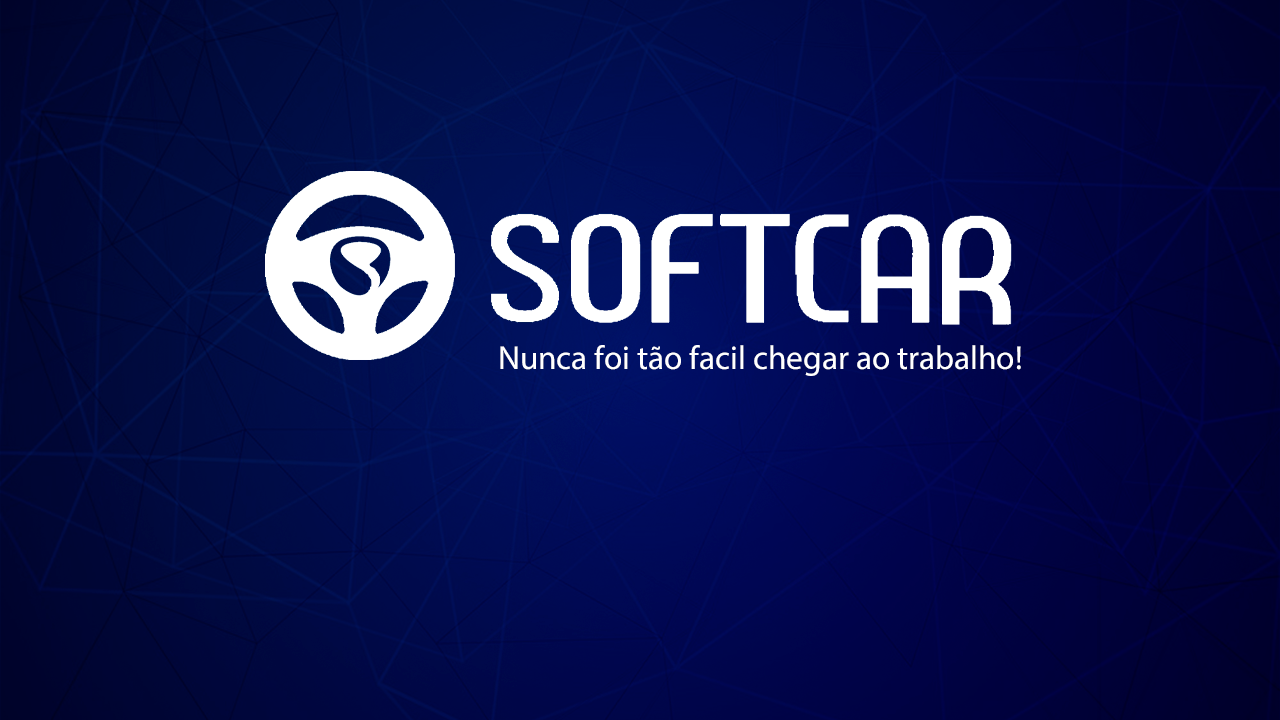
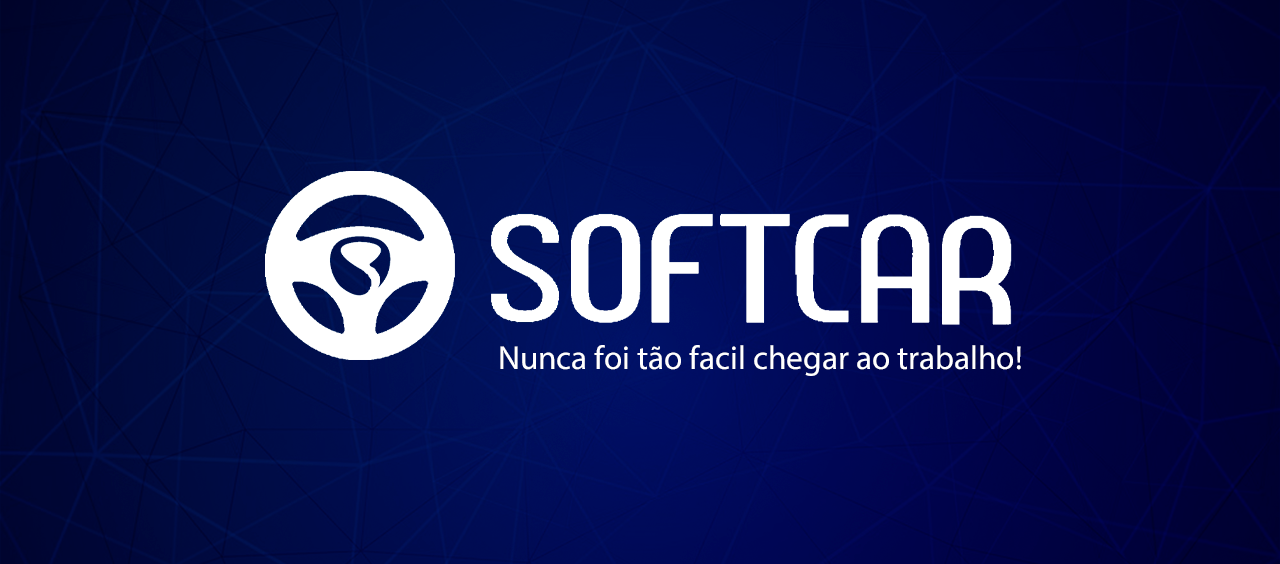
UPDATED BY ZÉ

Changed region(s): [[0.1875, 0.2411, 0.8125, 0.633], [0.375, 0.6028, 0.8125, 0.6631]]

diff --git a/home.html b/home.html
@@ -2,7 +2,7 @@
 <html lang="pt-br"></html>
 <html>
     <head>
-        <title>SoftCar Web</title>
+        <title>Softcar Web</title>
             <meta charset="utf-8">
             <link rel="stylesheet" href="home.css"/>
             <link rel="stylesheet" href="colorsLightMode.css"/>
@@ -17,10 +17,10 @@
             </nav>
     <nav class="menu">
         <ul>
-            <li id="espaçoLogo">
-                <a href="home.html">
+            <li class="espaçoLogo" href="home.html">
+                 
                     <img id="logo" src="logo.png">
-                </a>
+
             </li>
             <li><a href="#">Download Mobile</a>
             </li>
@@ -31,17 +31,45 @@
                     </ul>
                 </li>
             <li><a href="#">Fale Conosco</a></li>
-           <!-- <li> 
-                <a href="sitezitoDark.html">Modo Escuro</a>
-            </li> -->
         </ul>
     </nav>
             <div class="banner">
                 <img src="banner.png">  
             </div>
             <div class="texto1">
-                <p id="titulo1">Bem-Vindo ao SoftCar!</p>
-                <p id="descriçao">O SoftCar é um app android pra coisar uma coisa muito coisada e esse texto foi feito só pra encher linguiça pq eu o Jorge ta me fazendo quase dormir e eu to com preguiça de escrever um texto sério pra essa descrição agora valeu falou, gabriel termina aí namoral</p>
+                <p id="titulo1">Nunca foi tão facil chegar ao trabalho!</p>
+                <p id="descriçao">Lorem ipsum dolor sit amet, consectetur adipiscing elit. Integer commodo enim sem, a aliquam arcu auctor in. Nulla facilisi. Suspendisse imperdiet diam non aliquet pellentesque. Donec nec luctus enim. Nullam ultricies mi quis lectus varius, in tincidunt leo tincidunt. Phasellus tincidunt rutrum egestas. Morbi et risus arcu. Pellentesque rhoncus neque ligula, varius tincidunt lorem placerat a. Vivamus sed ex ipsum. Duis justo diam, convallis sed libero a, vehicula semper tellus. Nam vel leo diam. Lorem ipsum dolor sit amet, consectetur adipiscing elit. Nullam nec lectus enim. Pellentesque vel sapien sagittis, facilisis ipsum at, tempus urna. Sed metus justo, venenatis in metus vitae, gravida maximus felis. Cras condimentum sapien vitae sagittis vulputate.</p>
             </div>  
+                        
+                <div class="tabelas">
+                            <table class="tabela1">
+                                <tr class="titulo">
+                                        <th>Como surgiu?</th>
+                                </tr>
+                                    <tr>
+                                    <td>Lorem ipsum dolor sit amet, consectetur adipiscing elit. Integer commodo enim sem</td>
+                                </tr>
+                                </tr>
+                        </table>
+                        <table class="tabela2">
+                                <tr class="titulo">
+                                        <th>O Que é?</th> 
+                                </tr>
+                                    <tr>
+                                        <td>Lorem ipsum dolor sit amet, consectetur adipiscing elit. Integer commodo enim sem</td>
+                                    </tr>
+                                    </tr>
+                        </table>
+                        <table class="tabela3">
+                                <tr class="titulo">
+                                        <th>Quem somos?</th>
+                                </tr>
+                                    <tr>
+                                        <td>Lorem ipsum dolor sit amet, consectetur adipiscing elit. Integer commodo enim sem</td>
+                                    </tr>    
+                                </tr>
+                        </table>
+                    </div>
+
     </body>
 </html>

diff --git a/home.css b/home.css
@@ -8,6 +8,7 @@
         height: 50px;
         font-family:'Roboto',sans-serif;
         position: fixed;
+        box-shadow: 0px 1px 3px #145899;
     }
 
     .menu ul{
@@ -18,7 +19,6 @@
     .menu ul li{
         width: 200px;
         float: left;
-        box-shadow: 0px 1px 3px rgb(184, 184, 184);
     }
     
     .menu  a{
@@ -36,12 +36,16 @@
         font-family:'Roboto',sans-serif;
     }
     .menu #logo{
-        height: 33px;
+        height: 25px;
 
     }
-    .menu #espaçoLogo{
-        border-bottom-right-radius: 5px;
-    }
+    .espaçoLogo{
+        padding-top: 15px;
+        padding-bottom: 15px;
+        text-align: center;
+        width: 100%;
+    } 
+
     #descriçao{
         font-family: 'Open Sans',sans-serif;
         font-size: 18pt;
@@ -71,19 +75,6 @@
         width: 50px;
         height: 50px;
     }
-    
-    /* label[for="bt_darkMode"]{
-        padding: 15px;
-        font-family: 'Segoe UI';
-        text-align: center;
-        cursor: pointer;
-        display: block;
-        height: 100%;
-    } */
-
-    /* #bt_darkMode{
-        display: none;
-    } */
 
     #bt_menu{
         display: none;
@@ -95,10 +86,6 @@
     .banner img{
         width: 100%;
     }
-
-    /* label[for="bt_darkMode"]:hover{
-        font-weight: bold;
-    } */
 
     .texto1{
         padding: 50px;
@@ -114,24 +101,33 @@
         font-family: 'Open Sans',sans-serif;
         font-size: 18pt;
         padding-top: 25px;
-    }
-
-    #gif-do-pedro{
-        padding-top: 20px;
-        padding-left: 20px;
-        
-    }
-    #gif-comunista{
-        height: 253px;
-        padding-left: 20px;
+        padding-bottom: 25px;
     }
     
-   
-    /* @media(bt_darkMode: checked){
-        *{
-            background-color: #3a3a3a;
-        }
-    } */
+    .tabelas{
+        display: flex;
+        margin: 0px 50px 50px 50px;
+        font-family: 'Roboto',sans-serif;
+        font-size: 20px;
+    }
+    .tabela1{
+        padding: 10px;
+        box-shadow: 0px 0px 5px #145899;
+        border-radius: 20px;
+        margin: 0px 15px 0px 0px
+    }
+    .tabela2{
+        padding: 10px;
+        box-shadow: 0px 0px 5px #145899;
+        border-radius: 20px;
+    }
+    .tabela3{
+        padding: 10px;
+        box-shadow: 0px 0px 5px #145899;
+        border-radius: 20px;
+        margin: 0px 0px 0px 15px
+    }
+
 
 
  /* ########################################################### TELA PEQUENA ################################################################# */

diff --git a/colorsLightMode.css b/colorsLightMode.css
@@ -18,11 +18,8 @@ label[for="bt_menu"]{
     background-color: #145899;
     color: #ffffff;
 }
-/* label[for="bt_darkMode"]{
-    background-color: #ffffff;
-    color: #2abb51;
+#titulo1{
+    color: #145899;
 }
-label[for="bt_darkMode"]:hover{
-    background-color: #1a29af;
-    color: #ffffff;
-} */
+
+

diff --git a/README.md b/README.md
@@ -1,5 +1,4 @@
 # SoftCar
-Web
 
 Ouviram do Ipiranga as margens plácidas
 De um povo heroico o brado retumbante
